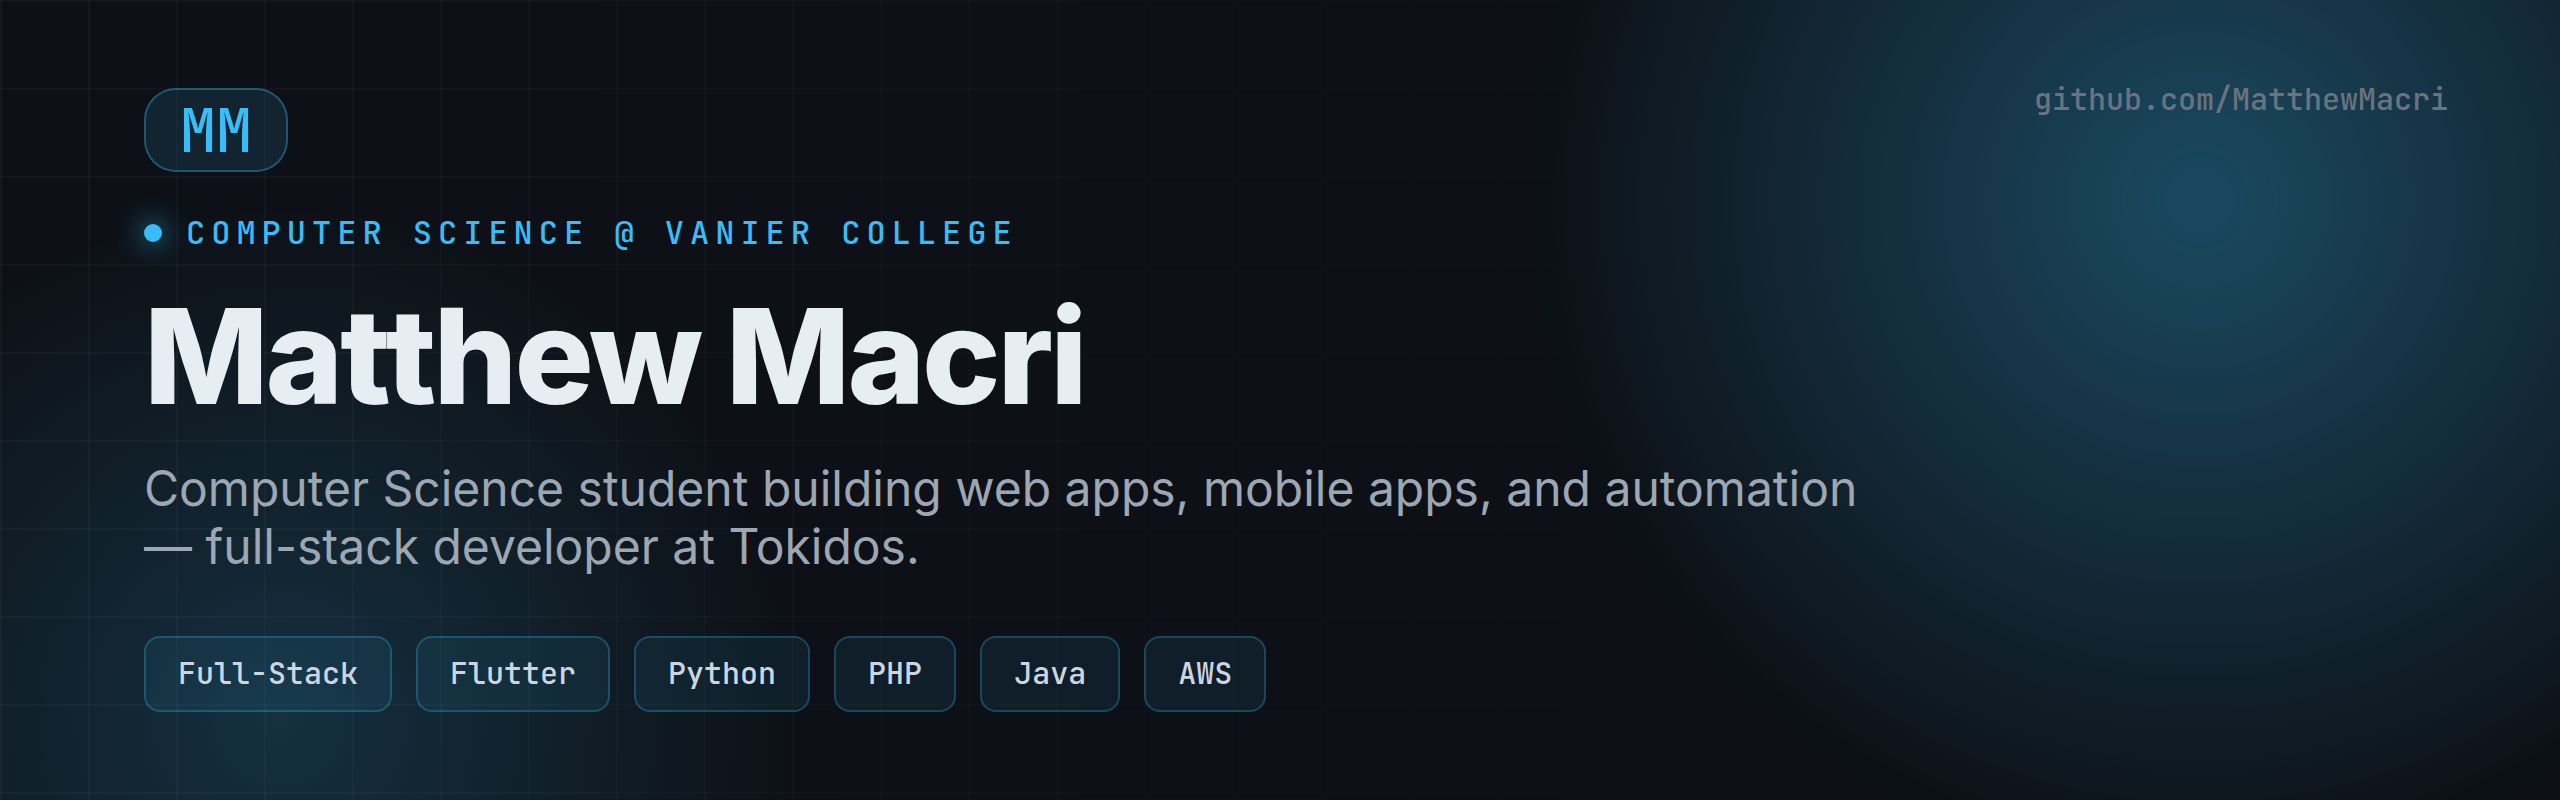
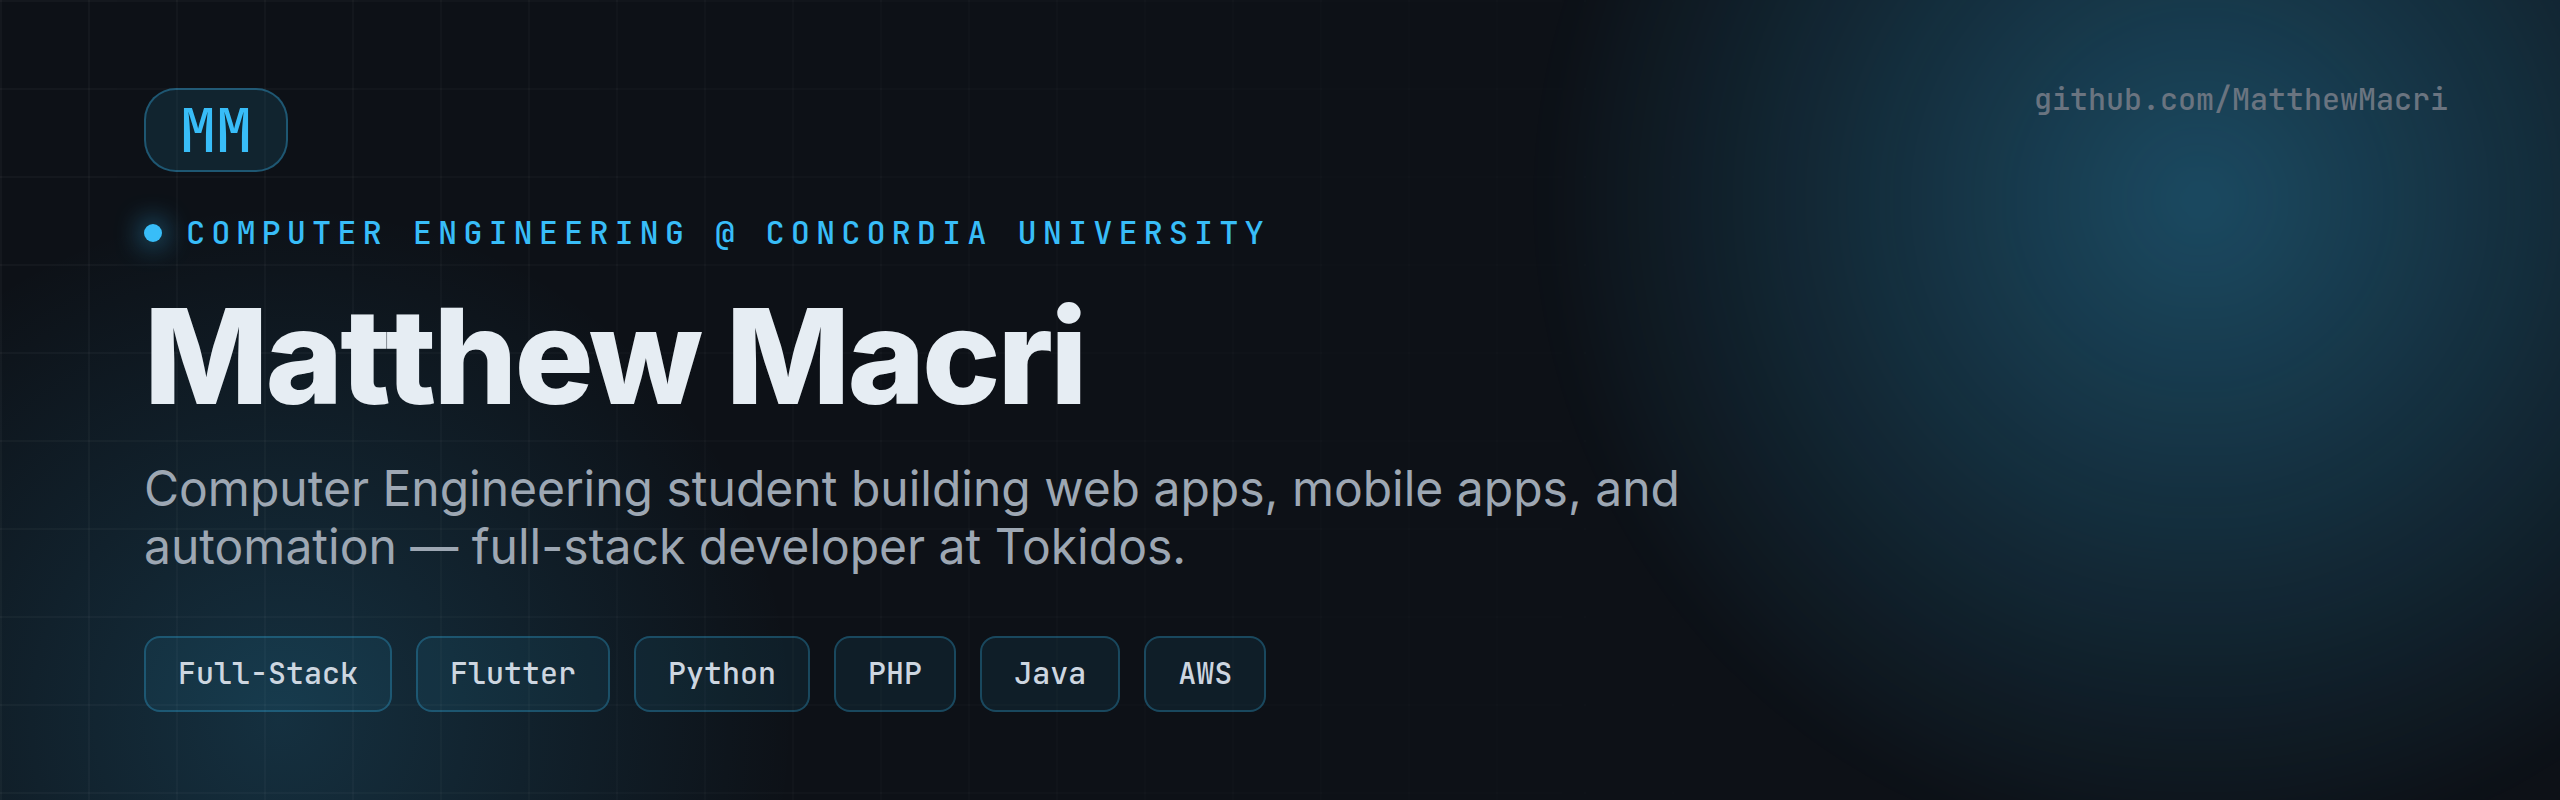
Update current status to Computer Engineering at Concordia University

Changed region(s): [[0.0625, 0.5938, 0.7188, 0.7188], [0.1562, 0.2812, 0.5, 0.3125]]

diff --git a/README.md b/README.md
@@ -3,7 +3,7 @@
 <h1 align="center">Hi, I'm Matthew Macri 👋</h1>
 
 <p align="center">
-  <b>Computer Science student at Vanier College · Full-Stack Developer at Tokidos</b><br>
+  <b>Computer Engineering student at Concordia University · Full-Stack Developer at Tokidos</b><br>
   I build web apps, mobile apps, and automation tools — and I like shipping things that actually get used.
 </p>
 
@@ -17,7 +17,7 @@
 
 ## 🧑💻 About Me
 
-- 🎓 Pursuing a **DEC in Computer Science Technology** at Vanier College — Dean's List three times
+- 🎓 Studying **Computer Engineering** at **Concordia University** — following my Computer Science studies at Vanier College (Dean's List ×3)
 - 💼 **Full-stack developer at Tokidos**, building internal tools for customer support and operations
 - 🛠 I work across the stack: web front-ends, Flask/PHP back-ends, Flutter mobile apps, and Python automation
 - 🏆 Hackathons: VanierHacks 2025 (honourable mention), McGill Physics Hackathon, Bell Hackathon, Quebec Hackathon
